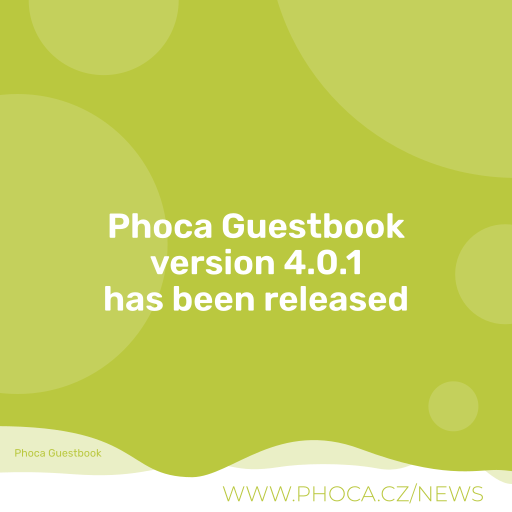
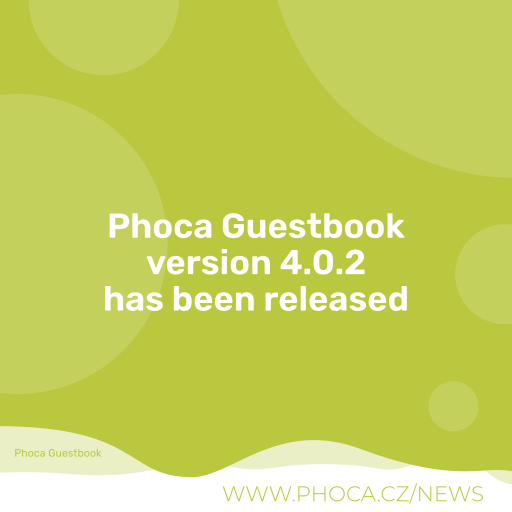
4.0.2

Changed region(s): [[0.2812, 0.4688, 0.7188, 0.5625]]

diff --git a/media/css/phocaguestbook.css b/media/css/phocaguestbook.css
@@ -65,3 +65,15 @@
 .pgb-btn-danger {
     margin: auto 0.3em;
 }
+
+
+@media (max-width:768px) {
+
+    #phocaguestbook .form-horizontal .controls {
+        margin-left: 0;
+    }
+    #phocaguestbook .form-horizontal .control-label {
+        float: none;
+        display: block;
+    }
+}

diff --git a/site/controllers/phocaguestbook.php b/site/controllers/phocaguestbook.php
@@ -92,6 +92,8 @@ class PhocaguestbookControllerPhocaguestbook extends FormController
 		}
 		$logging->captchaid = $captcha_id;
 
+		$store_ip				= $params->get( 'store_ip', 1 );
+
 		// Save params
 		$model->setState('params', $params);
 
@@ -120,6 +122,14 @@ class PhocaguestbookControllerPhocaguestbook extends FormController
 			$data['userip'] = $_SERVER['REMOTE_ADDR'];
 		}
 		$logging->ip = $data['userip'];
+
+		// Anonymize IP - for logging now, for data before saving in model
+		if ($store_ip == 0) {
+			$logging->ip = 'anonymous';
+		}
+
+
+
 
 		//captcha
 		switch ($params->get('captcha_id')) {
@@ -432,6 +442,10 @@ class PhocaguestbookControllerPhocaguestbook extends FormController
 		}
 
 		// CHECKS DONE - store entry
+
+		if ($store_ip == 0) {
+			$data['userip'] = 'anonymous';
+		}
 
 		$msg = '';
 		if ($model->store($data)) {

diff --git a/site/models/guestbook.php b/site/models/guestbook.php
@@ -51,6 +51,7 @@ class PhocaguestbookModelGuestbook extends FormModel
 		$uri 	= Uri::getInstance();
 		$app    = Factory::getApplication();
 		$params = $this->getState('params');
+        $store_ip				= $params->get( 'store_ip', 1 );
 
 		// cat id test
 		$id = $this->getState('category.id');
@@ -83,6 +84,12 @@ class PhocaguestbookModelGuestbook extends FormModel
 			$data['published'] = $params->get('review_item', 1);
 		}
 		$data['ip'] = $_SERVER["REMOTE_ADDR"];
+
+        if ($store_ip == 0) {
+			$data['userip'] = 'anonymous';
+            $data['ip'] = 'anonymous';
+		}
+
 		$data['date'] = gmdate('Y-m-d H:i:s');   // Create the timestamp for the date
 
 

diff --git a/README.MD b/README.MD
@@ -58,7 +58,7 @@ Phoca Guestbook is Joomla! CMS component. It displays guestbook form with Captch
 
 ## Version (Joomla! 4.x)
 
-4.0.1
+4.0.2
 
 
 
